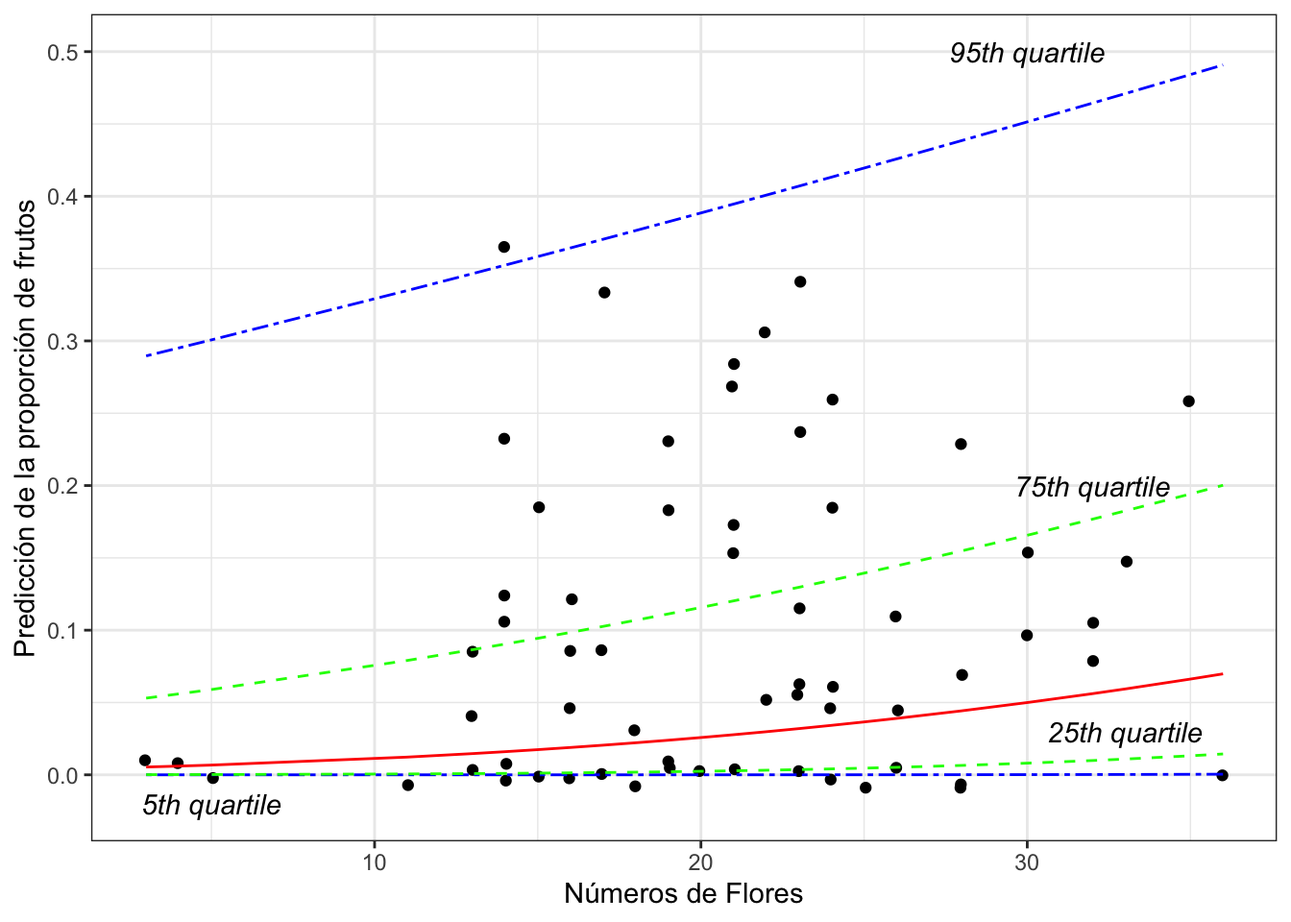
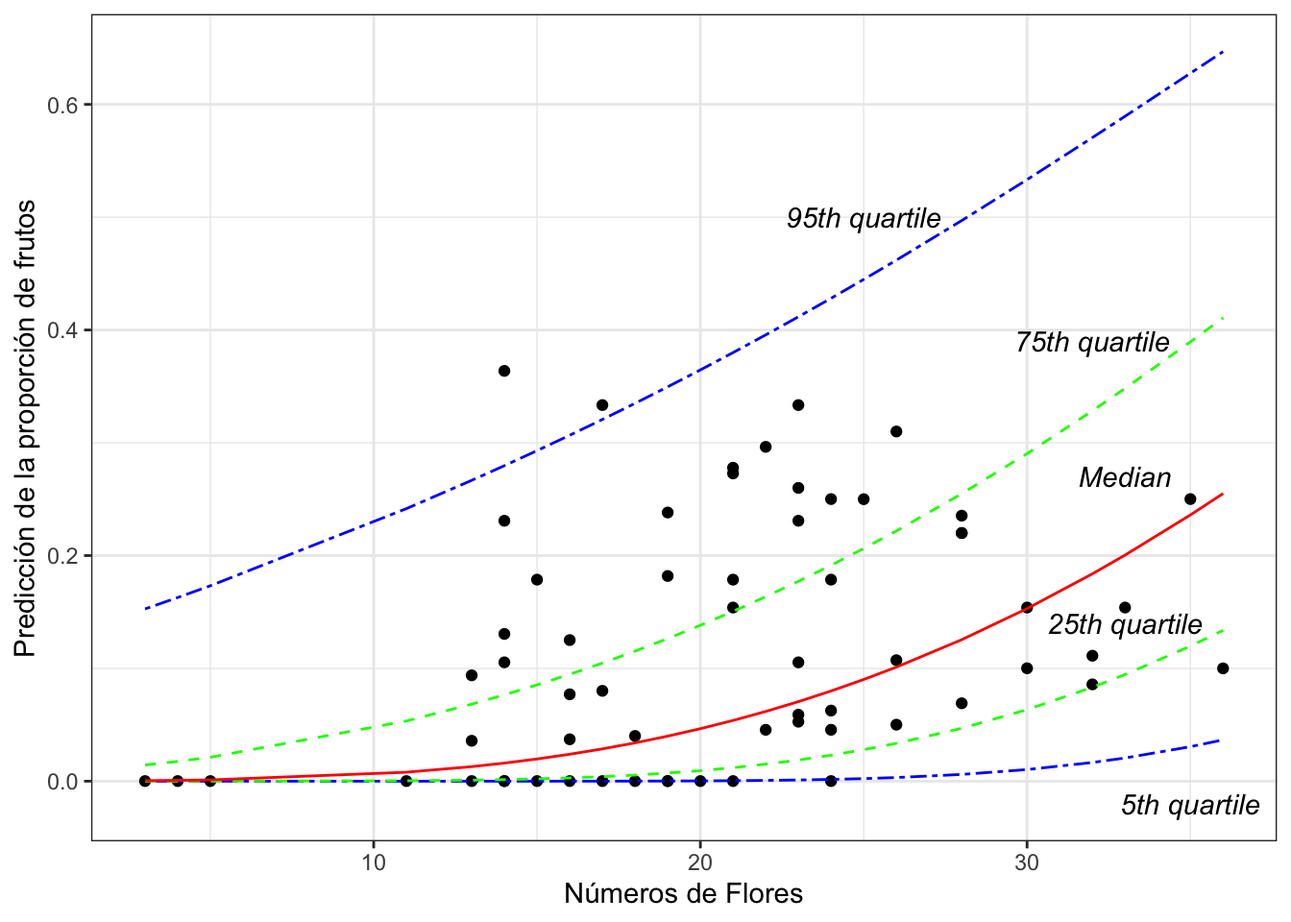
TF7

diff --git a/TF7_Regresion_beta.html b/TF7_Regresion_beta.html
@@ -708,12 +708,12 @@ div.tocify {
 <h1>Primer paso, que es una distribución beta?</h1>
 <p>Lo más importante de la distribución beta es que los valores NUNCA son menores de 0 ni mayores de 1. En adición los intervalos de confianza tampoco no pueden ser ni menor de 0 ni mayor de 1.</p>
 <div class="sourceCode" id="cb2"><pre class="sourceCode r"><code class="sourceCode r"><span id="cb2-1"><a href="#cb2-1"></a><span class="kw">library</span>(tidyverse)</span></code></pre></div>
-<pre><code>## ── Attaching packages ───────────────────────────────────────────────────────────────── tidyverse 1.3.0 ──</code></pre>
+<pre><code>## ── Attaching packages ─────────────────────────────────────────────────────────────────────────────────────────────────────────────────────────────────── tidyverse 1.3.0 ──</code></pre>
 <pre><code>## ✓ tibble  3.0.3     ✓ dplyr   1.0.2
 ## ✓ tidyr   1.1.2     ✓ stringr 1.4.0
 ## ✓ readr   1.4.0     ✓ forcats 0.5.0
 ## ✓ purrr   0.3.4</code></pre>
-<pre><code>## ── Conflicts ──────────────────────────────────────────────────────────────────── tidyverse_conflicts() ──
+<pre><code>## ── Conflicts ────────────────────────────────────────────────────────────────────────────────────────────────────────────────────────────────────── tidyverse_conflicts() ──
 ## x dplyr::filter() masks stats::filter()
 ## x dplyr::lag()    masks stats::lag()</code></pre>
 <div class="sourceCode" id="cb6"><pre class="sourceCode r"><code class="sourceCode r"><span id="cb6-1"><a href="#cb6-1"></a><span class="kw">library</span>(ggplot2)</span></code></pre></div>
@@ -731,7 +731,7 @@ div.tocify {
 <div class="sourceCode" id="cb8"><pre class="sourceCode r"><code class="sourceCode r"><span id="cb8-1"><a href="#cb8-1"></a><span class="kw">library</span>(readr)</span>
 <span id="cb8-2"><a href="#cb8-2"></a>Proportion_smokers_world &lt;-<span class="st"> </span><span class="kw">read_csv</span>(<span class="st">&quot;Data/Proportion_smokers_world.csv&quot;</span>)</span></code></pre></div>
 <pre><code>## 
-## ── Column specification ──────────────────────────────────────────────────────────────────────────────────
+## ── Column specification ────────────────────────────────────────────────────────────────────────────────────────────────────────────────────────────────────────────────────
 ## cols(
 ##   Country_Name = col_character(),
 ##   Country_Code = col_character(),
@@ -806,24 +806,45 @@ div.tocify {
 ## 
 ## Intervals : 
 ## Level       BCa          
-## 95%   ( 0.2538,  0.2976 )  
+## 95%   ( 0.2393,  0.2832 )  
 ## Calculations and Intervals on Original Scale</code></pre>
 </div>
 </div>
 <div id="sobreponemos-el-intervalo-de-confianza-de-la-mediana-sobre-la-distribución-beta" class="section level1">
 <h1>Sobreponemos el intervalo de confianza de la mediana sobre la distribución beta</h1>
 <div class="sourceCode" id="cb24"><pre class="sourceCode r"><code class="sourceCode r"><span id="cb24-1"><a href="#cb24-1"></a><span class="kw">ggplot</span>(Smokers, <span class="kw">aes</span>(Y2000P))<span class="op">+</span></span>
-<span id="cb24-2"><a href="#cb24-2"></a><span class="st">  </span><span class="kw">geom_histogram</span>(<span class="kw">aes</span>(<span class="dt">y=</span>..density..), <span class="dt">colour=</span><span class="st">&quot;white&quot;</span>, <span class="dt">fill=</span><span class="st">&quot;grey50&quot;</span>)<span class="op">+</span></span>
+<span id="cb24-2"><a href="#cb24-2"></a><span class="st">  </span><span class="kw">geom_histogram</span>(<span class="kw">aes</span>(<span class="dt">y=</span>..density..), <span class="dt">bins=</span><span class="dv">20</span>, <span class="dt">colour=</span><span class="st">&quot;white&quot;</span>, <span class="dt">fill=</span><span class="st">&quot;grey50&quot;</span>)<span class="op">+</span></span>
 <span id="cb24-3"><a href="#cb24-3"></a><span class="st">  </span><span class="kw">stat_function</span>(<span class="kw">aes</span>(<span class="dt">x =</span> Smokers<span class="op">$</span>Y2000P, <span class="dt">y =</span> ..y..), <span class="dt">fun =</span> dbeta, <span class="dt">colour=</span><span class="st">&quot;red&quot;</span>, <span class="dt">n =</span> <span class="dv">100</span>,</span>
 <span id="cb24-4"><a href="#cb24-4"></a>                      <span class="dt">args =</span> <span class="kw">list</span>(<span class="dt">shape1 =</span> <span class="fl">3.593</span>, <span class="dt">shape2 =</span> <span class="fl">9.185</span>))<span class="op">+</span></span>
 <span id="cb24-5"><a href="#cb24-5"></a><span class="st">  </span><span class="kw">geom_vline</span>(<span class="dt">xintercept =</span><span class="fl">0.2320</span>, <span class="dt">colour=</span><span class="st">&quot;blue&quot;</span>)<span class="op">+</span><span class="st"> </span><span class="co"># El intervalo de confianza del promedio</span></span>
 <span id="cb24-6"><a href="#cb24-6"></a><span class="st">  </span><span class="kw">geom_vline</span>(<span class="dt">xintercept =</span><span class="fl">0.2768</span>, <span class="dt">colour=</span><span class="st">&quot;blue&quot;</span>)<span class="op">+</span></span>
 <span id="cb24-7"><a href="#cb24-7"></a><span class="st">  </span>rlt_theme<span class="op">+</span></span>
-<span id="cb24-8"><a href="#cb24-8"></a><span class="st">  </span><span class="kw">xlab</span>(<span class="st">&quot;Proportción de fumadores por Pais&quot;</span>)</span></code></pre></div>
-<pre><code>## `stat_bin()` using `bins = 30`. Pick better value with `binwidth`.</code></pre>
+<span id="cb24-8"><a href="#cb24-8"></a><span class="st">  </span><span class="kw">xlab</span>(<span class="st">&quot;Proporción de fumadores por Pais&quot;</span>)</span></code></pre></div>
 <p><img src="TF7_Regresion_beta_files/figure-html/unnamed-chunk-11-1.png" width="672" /></p>
 <p>Ahora vamos es hacer el primer análisis de regresión donde nuestra respuesta es una proporción.</p>
-<div class="sourceCode" id="cb26"><pre class="sourceCode r"><code class="sourceCode r"><span id="cb26-1"><a href="#cb26-1"></a><span class="kw">library</span>(ggversa) <span class="co"># paquete para los datos</span></span></code></pre></div>
+<div class="sourceCode" id="cb25"><pre class="sourceCode r"><code class="sourceCode r"><span id="cb25-1"><a href="#cb25-1"></a><span class="kw">library</span>(ggversa) <span class="co"># paquete para los datos</span></span>
+<span id="cb25-2"><a href="#cb25-2"></a><span class="kw">attach</span>(dipodium)</span>
+<span id="cb25-3"><a href="#cb25-3"></a>dipodium</span></code></pre></div>
+<pre><code>## # A tibble: 1,363 x 21
+##    `Tree Number` `Tree species`   DBH `Plant number` `Ramet number` Distance
+##            &lt;int&gt; &lt;chr&gt;          &lt;dbl&gt;          &lt;int&gt;          &lt;int&gt;    &lt;dbl&gt;
+##  1             1 E.o             75                1              1     2.47
+##  2             1 E.o             76                2              1     1.97
+##  3             2 E.o             76                3              1     1.95
+##  4             3 E.o             58                4              1     3.24
+##  5             4 E.o             NA                5              1     0.85
+##  6             5 E.o             59                6              1     2.62
+##  7             5 E.o             59                7              1     2.82
+##  8             6 E.o              8                8              1     3.12
+##  9             7 E.o             11.5              9              1     1.12
+## 10             8 E.o              8.5             10              1     0.75
+## # … with 1,353 more rows, and 15 more variables: Orientation &lt;dbl&gt;,
+## #   Number_of_Flowers &lt;int&gt;, Height_Inflo &lt;int&gt;, Herbivory &lt;chr&gt;,
+## #   RowPosition_NF &lt;int&gt;, Number_Flowers_position &lt;int&gt;,
+## #   Number_of_fruits &lt;int&gt;, Perc_FR_set &lt;dbl&gt;, pardalinum_or_roseum &lt;chr&gt;,
+## #   Fruit_position_effect &lt;int&gt;, Frutos_si_o_no &lt;int&gt;,
+## #   P_or_R_Infl_Lenght &lt;chr&gt;, `Num of fruits` &lt;int&gt;, Species_Name &lt;chr&gt;,
+## #   `Cardinal orientation` &lt;int&gt;</code></pre>
 <div class="sourceCode" id="cb27"><pre class="sourceCode r"><code class="sourceCode r"><span id="cb27-1"><a href="#cb27-1"></a><span class="kw">library</span>(betareg) <span class="co"># El paquete para hacer regresión beta</span></span></code></pre></div>
 <hr />
 <div id="regresión-beta" class="section level2">
@@ -836,10 +857,10 @@ from this webpage: <a href="https://binalongbungalows.wordpress.com/tasmanian-or
 </div>
 <p>Los datos provienen de una especie de orquidea de Autralia, <em>Dipodium roseum</em>, recolectado por RLT en 2004-2005. Vamos a evaluar la relación entre el número de flores y la proporción de frutos por planta. El primer paso es asegarar que no haya valores de 0 y 1. En este caso no hay ni una planta que tiene 100% de frutos, pero si hay individuos que tienen cero frutos.</p>
 <ul>
-<li>RECUERDA x &gt;0 y &lt;1. NO se acepta 0 o 1. Entonces a los valores de 0 se le puede añadir un valor mínimo como 0.001 y a los 1 restar 0.001. En realidad esta modificación no impacta la interpretación de los resultados.</li>
-<li>se remueva también del archivo los NA.</li>
+<li><p>RECUERDA x &gt;0 y &lt;1. NO se acepta 0 o 1. Entonces a los valores de 0 se le puede añadir un valor mínimo como 0.001 y a los 1 restar 0.001. En realidad esta modificación no impacta la interpretación de los resultados.</p></li>
+<li><p>se remueva también del archivo los NA.</p></li>
+<li><p>Nota que el modelo se construye como un modelo lineal <strong>betareg(y~x, data =na.omit(df))</strong>. Las variables del archivo son <strong>PropFR</strong>, el proporción de frutos (número de frutos/números de flores) por cada individuo y el número de flores, <strong>Number_of_Flowers</strong>.</p></li>
 </ul>
-<p>Nota el modelo se construye como un modelo lineal <strong>betareg(y~ x, data =na.omit(df))</strong>. Las variables del archivo son <strong>PropFR</strong>, el porciento de frutos (numero de frutos/números de flores) por cada individuo y el número de flores, <strong>Number_of_Flowers</strong>.</p>
 <div class="sourceCode" id="cb28"><pre class="sourceCode r"><code class="sourceCode r"><span id="cb28-1"><a href="#cb28-1"></a><span class="kw">head</span>(dipodium)</span></code></pre></div>
 <pre><code>## # A tibble: 6 x 21
 ##   `Tree Number` `Tree species`   DBH `Plant number` `Ramet number` Distance
@@ -859,132 +880,167 @@ from this webpage: <a href="https://binalongbungalows.wordpress.com/tasmanian-or
 <div class="sourceCode" id="cb30"><pre class="sourceCode r"><code class="sourceCode r"><span id="cb30-1"><a href="#cb30-1"></a><span class="kw">library</span>(tidyverse)</span>
 <span id="cb30-2"><a href="#cb30-2"></a>dipodium<span class="op">$</span>PropFR=dipodium<span class="op">$</span>Perc_FR_set<span class="fl">+0.0001</span> <span class="co"># solucionar para remover los cero</span></span>
 <span id="cb30-3"><a href="#cb30-3"></a><span class="co">#dipodium$PropFR</span></span>
-<span id="cb30-4"><a href="#cb30-4"></a></span>
-<span id="cb30-5"><a href="#cb30-5"></a>modelpropFr=<span class="kw">betareg</span>(PropFR<span class="op">~</span>Number_of_Flowers<span class="op">+</span>Height_Inflo<span class="op">+</span>Distance, <span class="dt">data =</span><span class="kw">na.omit</span>(dipodium))</span>
-<span id="cb30-6"><a href="#cb30-6"></a><span class="kw">summary</span>(modelpropFr)</span></code></pre></div>
+<span id="cb30-4"><a href="#cb30-4"></a>dipodium2=dipodium <span class="op">%&gt;%</span><span class="st"> </span></span>
+<span id="cb30-5"><a href="#cb30-5"></a><span class="st">  </span><span class="kw">select</span>(PropFR, Number_of_Flowers,Height_Inflo, Distance) <span class="op">%&gt;%</span><span class="st"> </span></span>
+<span id="cb30-6"><a href="#cb30-6"></a><span class="st">  </span><span class="kw">filter</span>(<span class="kw">complete.cases</span>(PropFR, Number_of_Flowers,Height_Inflo, Distance))</span>
+<span id="cb30-7"><a href="#cb30-7"></a><span class="co">#dipodium2</span></span>
+<span id="cb30-8"><a href="#cb30-8"></a><span class="kw">write.csv</span>(<span class="dt">x=</span>dipodium2, <span class="dt">file=</span><span class="st">&quot;dipodium2.csv&quot;</span>)</span>
+<span id="cb30-9"><a href="#cb30-9"></a></span>
+<span id="cb30-10"><a href="#cb30-10"></a></span>
+<span id="cb30-11"><a href="#cb30-11"></a><span class="kw">library</span>(readr)</span>
+<span id="cb30-12"><a href="#cb30-12"></a>dipodium2 &lt;-<span class="st"> </span><span class="kw">read_csv</span>(<span class="st">&quot;Data/dipodium2.csv&quot;</span>)</span></code></pre></div>
+<pre><code>## Warning: Missing column names filled in: &#39;X1&#39; [1]</code></pre>
+<pre><code>## 
+## ── Column specification ────────────────────────────────────────────────────────────────────────────────────────────────────────────────────────────────────────────────────
+## cols(
+##   X1 = col_double(),
+##   PropFR = col_double(),
+##   Number_of_Flowers = col_double(),
+##   Height_Inflo = col_double(),
+##   Distance = col_double()
+## )</code></pre>
+<div class="sourceCode" id="cb33"><pre class="sourceCode r"><code class="sourceCode r"><span id="cb33-1"><a href="#cb33-1"></a>modelpropFr=<span class="kw">betareg</span>(PropFR<span class="op">~</span>Number_of_Flowers<span class="op">+</span>Height_Inflo<span class="op">+</span>Distance, <span class="dt">data =</span><span class="kw">na.omit</span>(dipodium2))</span>
+<span id="cb33-2"><a href="#cb33-2"></a><span class="kw">summary</span>(modelpropFr)</span></code></pre></div>
 <pre><code>## 
 ## Call:
 ## betareg(formula = PropFR ~ Number_of_Flowers + Height_Inflo + Distance, 
-##     data = na.omit(dipodium))
+##     data = na.omit(dipodium2))
 ## 
 ## Standardized weighted residuals 2:
 ##     Min      1Q  Median      3Q     Max 
-## -2.8323 -0.9208  0.4668  0.8004  1.1666 
+## -3.8613 -0.4046  0.2672  0.8535  1.2798 
 ## 
 ## Coefficients (mean model with logit link):
-##                   Estimate Std. Error z value Pr(&gt;|z|)   
-## (Intercept)       -2.01965    0.74994  -2.693  0.00708 **
-## Number_of_Flowers  0.06048    0.03139   1.927  0.05401 . 
-## Height_Inflo      -0.02293    0.01921  -1.194  0.23264   
-## Distance          -0.14251    0.10093  -1.412  0.15797   
+##                    Estimate Std. Error z value Pr(&gt;|z|)    
+## (Intercept)       -3.796016   0.727139  -5.220 1.78e-07 ***
+## Number_of_Flowers  0.076200   0.028247   2.698  0.00698 ** 
+## Height_Inflo       0.006054   0.017847   0.339  0.73444    
+## Distance          -0.111010   0.093825  -1.183  0.23674    
 ## 
 ## Phi coefficients (precision model with identity link):
 ##       Estimate Std. Error z value Pr(&gt;|z|)    
-## (phi)   3.6052     0.8236   4.377  1.2e-05 ***
+## (phi)   4.8382     0.9982   4.847 1.25e-06 ***
 ## ---
 ## Signif. codes:  0 &#39;***&#39; 0.001 &#39;**&#39; 0.01 &#39;*&#39; 0.05 &#39;.&#39; 0.1 &#39; &#39; 1 
 ## 
 ## Type of estimator: ML (maximum likelihood)
-## Log-likelihood: 122.4 on 5 Df
-## Pseudo R-squared: 0.09374
-## Number of iterations: 20 (BFGS) + 1 (Fisher scoring)</code></pre>
+## Log-likelihood: 113.9 on 5 Df
+## Pseudo R-squared: 0.2757
+## Number of iterations: 19 (BFGS) + 2 (Fisher scoring)</code></pre>
 </div>
 <div id="visualizar-un-grafico-de-regresión-beta" class="section level2">
 <h2>Visualizar un grafico de regresión beta</h2>
-<div class="sourceCode" id="cb32"><pre class="sourceCode r"><code class="sourceCode r"><span id="cb32-1"><a href="#cb32-1"></a>dipodiumbeta=dipodium[,<span class="kw">c</span>(<span class="st">&quot;Number_of_Flowers&quot;</span>,<span class="st">&quot;PropFR&quot;</span>)] <span class="co"># crear un df con solamente las columnas de interes </span></span>
-<span id="cb32-2"><a href="#cb32-2"></a></span>
-<span id="cb32-3"><a href="#cb32-3"></a> dp2=dipodiumbeta[<span class="kw">complete.cases</span>(dipodiumbeta),] <span class="co"># remover los &quot;NA&quot; </span></span>
-<span id="cb32-4"><a href="#cb32-4"></a> </span>
-<span id="cb32-5"><a href="#cb32-5"></a>modelpropFr=<span class="kw">betareg</span>(PropFR<span class="op">~</span>Number_of_Flowers, <span class="dt">data=</span>dp2) <span class="co"># El modelo con solamente la explicativa</span></span>
-<span id="cb32-6"><a href="#cb32-6"></a><span class="kw">summary</span>(modelpropFr)</span></code></pre></div>
+<div class="sourceCode" id="cb35"><pre class="sourceCode r"><code class="sourceCode r"><span id="cb35-1"><a href="#cb35-1"></a>dipodiumbeta=dipodium2[,<span class="kw">c</span>(<span class="st">&quot;Number_of_Flowers&quot;</span>,<span class="st">&quot;PropFR&quot;</span>)] <span class="co"># crear un df con solamente las columnas de interes </span></span>
+<span id="cb35-2"><a href="#cb35-2"></a></span>
+<span id="cb35-3"><a href="#cb35-3"></a> dp2=dipodiumbeta[<span class="kw">complete.cases</span>(dipodiumbeta),] <span class="co"># remover los &quot;NA&quot; </span></span>
+<span id="cb35-4"><a href="#cb35-4"></a> </span>
+<span id="cb35-5"><a href="#cb35-5"></a>modelpropFr=<span class="kw">betareg</span>(PropFR<span class="op">~</span>Number_of_Flowers, <span class="dt">data=</span>dp2) <span class="co"># El modelo con solamente la explicativa</span></span>
+<span id="cb35-6"><a href="#cb35-6"></a><span class="kw">summary</span>(modelpropFr)</span></code></pre></div>
 <pre><code>## 
 ## Call:
 ## betareg(formula = PropFR ~ Number_of_Flowers, data = dp2)
 ## 
 ## Standardized weighted residuals 2:
 ##     Min      1Q  Median      3Q     Max 
-## -2.6204 -0.9891  0.4285  0.7989  1.1263 
+## -3.3221 -0.3181  0.2414  0.8225  1.2346 
 ## 
 ## Coefficients (mean model with logit link):
 ##                   Estimate Std. Error z value Pr(&gt;|z|)    
-## (Intercept)       -2.95068    0.45003  -6.557 5.51e-11 ***
-## Number_of_Flowers  0.03047    0.01873   1.627    0.104    
+## (Intercept)       -3.88360    0.44251  -8.776  &lt; 2e-16 ***
+## Number_of_Flowers  0.08259    0.01803   4.581 4.62e-06 ***
 ## 
 ## Phi coefficients (precision model with identity link):
 ##       Estimate Std. Error z value Pr(&gt;|z|)    
-## (phi)   3.4044     0.7682   4.432 9.35e-06 ***
+## (phi)   4.6947     0.9699    4.84  1.3e-06 ***
 ## ---
 ## Signif. codes:  0 &#39;***&#39; 0.001 &#39;**&#39; 0.01 &#39;*&#39; 0.05 &#39;.&#39; 0.1 &#39; &#39; 1 
 ## 
 ## Type of estimator: ML (maximum likelihood)
-## Log-likelihood: 138.4 on 3 Df
-## Pseudo R-squared: 0.0644
-## Number of iterations: 14 (BFGS) + 2 (Fisher scoring)</code></pre>
-<div class="sourceCode" id="cb34"><pre class="sourceCode r"><code class="sourceCode r"><span id="cb34-1"><a href="#cb34-1"></a> <span class="co">#head(dp2)</span></span>
-<span id="cb34-2"><a href="#cb34-2"></a><span class="co">#dp2$PropFR</span></span>
-<span id="cb34-3"><a href="#cb34-3"></a><span class="kw">predict</span>(modelpropFr, <span class="dt">type =</span> <span class="st">&quot;response&quot;</span>) <span class="co"># calcular los valores estimados (predichos)</span></span></code></pre></div>
+## Log-likelihood: 112.9 on 3 Df
+## Pseudo R-squared: 0.2538
+## Number of iterations: 18 (BFGS) + 1 (Fisher scoring)</code></pre>
+<div class="sourceCode" id="cb37"><pre class="sourceCode r"><code class="sourceCode r"><span id="cb37-1"><a href="#cb37-1"></a> <span class="co">#head(dp2)</span></span>
+<span id="cb37-2"><a href="#cb37-2"></a><span class="co">#dp2$PropFR</span></span>
+<span id="cb37-3"><a href="#cb37-3"></a><span class="kw">predict</span>(modelpropFr, <span class="dt">type =</span> <span class="st">&quot;response&quot;</span>) <span class="co"># calcular los valores estimados (predichos)</span></span></code></pre></div>
 <pre><code>##          1          2          3          4          5          6          7 
-## 0.06814386 0.08534612 0.08299774 0.09801287 0.10073942 0.08070828 0.08534612 
+## 0.02568523 0.02783519 0.03015954 0.04856508 0.05679268 0.05679268 0.05679268 
 ##          8          9         10         11         12         13         14 
-## 0.07418174 0.07847656 0.09535228 0.07418174 0.05578661 0.09535228 0.09022432 
+## 0.06138242 0.06138242 0.06138242 0.06138242 0.06138242 0.06138242 0.06631700 
 ##         15         16         17         18         19         20         21 
-## 0.09022432 0.07847656 0.07211634 0.12506577 0.07630144 0.08070828 0.07418174 
+## 0.06631700 0.07161801 0.07161801 0.07161801 0.07161801 0.07730766 0.07730766 
 ##         22         23         24         25         26         27         28 
-## 0.09535228 0.11540253 0.10932659 0.08299774 0.08070828 0.13188690 0.07211634 
+## 0.07730766 0.08340872 0.08340872 0.08994433 0.08994433 0.08994433 0.08994433 
 ##         29         30         31         32         33         34         35 
-## 0.11540253 0.12176997 0.09022432 0.10932659 0.07418174 0.07418174 0.07847656 
+## 0.09693789 0.10441284 0.10441284 0.10441284 0.10441284 0.10441284 0.11239245 
 ##         36         37         38         39         40         41         42 
-## 0.09801287 0.07630144 0.10353312 0.10353312 0.08775459 0.07418174 0.09535228 
+## 0.11239245 0.12089957 0.12089957 0.12089957 0.12089957 0.12089957 0.12089957 
 ##         43         44         45         46         47         48         49 
-## 0.09801287 0.09022432 0.08534612 0.10353312 0.09275650 0.08534612 0.05420339 
+## 0.12995632 0.12995632 0.12995632 0.12995632 0.12995632 0.13958381 0.14980172 
 ##         50         51         52         53         54         55         56 
-## 0.13541430 0.12176997 0.09022432 0.09535228 0.09535228 0.07847656 0.09275650 
+## 0.14980172 0.14980172 0.17207828 0.17207828 0.17207828 0.17207828 0.19690033 
 ##         57         58         59         60         61         62 
-## 0.07211634 0.09801287 0.10932659 0.10932659 0.09801287 0.05741327</code></pre>
-<div class="sourceCode" id="cb36"><pre class="sourceCode r"><code class="sourceCode r"><span id="cb36-1"><a href="#cb36-1"></a>dp2<span class="op">$</span>response=<span class="kw">predict</span>(modelpropFr, <span class="dt">type =</span> <span class="st">&quot;response&quot;</span>)</span>
-<span id="cb36-2"><a href="#cb36-2"></a><span class="co"># dp2$link=predict(modelpropFr, type = &quot;link&quot;)</span></span>
-<span id="cb36-3"><a href="#cb36-3"></a><span class="co"># dp2$precision=predict(modelpropFr, type = &quot;precision&quot;)</span></span>
-<span id="cb36-4"><a href="#cb36-4"></a><span class="co"># dp2$variance=predict(modelpropFr, type = &quot;variance&quot;)</span></span>
-<span id="cb36-5"><a href="#cb36-5"></a>dp2<span class="op">$</span>quantile_.<span class="dv">25</span>=<span class="kw">predict</span>(modelpropFr, <span class="dt">type =</span> <span class="st">&quot;quantile&quot;</span>, <span class="dt">at =</span> <span class="kw">c</span>(<span class="fl">0.25</span>))</span>
-<span id="cb36-6"><a href="#cb36-6"></a>dp2<span class="op">$</span>quantile_.<span class="dv">50</span>=<span class="kw">predict</span>(modelpropFr, <span class="dt">type =</span> <span class="st">&quot;quantile&quot;</span>, <span class="dt">at =</span> <span class="kw">c</span>(<span class="fl">0.50</span>))</span>
-<span id="cb36-7"><a href="#cb36-7"></a>dp2<span class="op">$</span>quantile_.<span class="dv">75</span>=<span class="kw">predict</span>(modelpropFr, <span class="dt">type =</span> <span class="st">&quot;quantile&quot;</span>, <span class="dt">at =</span> <span class="kw">c</span>(<span class="fl">0.75</span>))</span>
-<span id="cb36-8"><a href="#cb36-8"></a>dp2<span class="op">$</span>quantile_.<span class="dv">05</span>=<span class="kw">predict</span>(modelpropFr, <span class="dt">type =</span> <span class="st">&quot;quantile&quot;</span>, <span class="dt">at =</span> <span class="kw">c</span>(<span class="fl">0.05</span>))</span>
-<span id="cb36-9"><a href="#cb36-9"></a>dp2<span class="op">$</span>quantile_.<span class="dv">95</span>=<span class="kw">predict</span>(modelpropFr, <span class="dt">type =</span> <span class="st">&quot;quantile&quot;</span>, <span class="dt">at =</span> <span class="kw">c</span>(<span class="fl">0.95</span>))</span>
-<span id="cb36-10"><a href="#cb36-10"></a><span class="kw">head</span>(dp2)</span></code></pre></div>
-<pre><code>## # A tibble: 6 x 8
-##   Number_of_Flowe… PropFR response quantile_.25 quantile_.50 quantile_.75
-##              &lt;int&gt;  &lt;dbl&gt;    &lt;dbl&gt;        &lt;dbl&gt;        &lt;dbl&gt;        &lt;dbl&gt;
-## 1               11 0.0001   0.0681     0.000605       0.0123       0.0791
-## 2               19 0.0001   0.0853     0.00212        0.0239       0.111 
-## 3               18 0.0401   0.0830     0.00184        0.0222       0.107 
-## 4               24 0.250    0.0980     0.00409        0.0342       0.135 
-## 5               25 0.0001   0.101      0.00461        0.0366       0.139 
-## 6               17 0.0801   0.0807     0.00159        0.0205       0.103 
-## # … with 2 more variables: quantile_.05 &lt;dbl&gt;, quantile_.95 &lt;dbl&gt;</code></pre>
-<p>Contructing the figure for beta regression, One of the main advantage of using this approach is that the quartile are calculated with a beta distribution. Thus the margin of error DO NOT go below 0, and do NOT go over 1.</p>
-<div class="sourceCode" id="cb38"><pre class="sourceCode r"><code class="sourceCode r"><span id="cb38-1"><a href="#cb38-1"></a><span class="kw">library</span>(ggplot2)</span>
-<span id="cb38-2"><a href="#cb38-2"></a><span class="kw">ggplot</span>(dp2, <span class="kw">aes</span>(<span class="dt">x=</span>Number_of_Flowers, <span class="dt">y=</span>PropFR))<span class="op">+</span></span>
-<span id="cb38-3"><a href="#cb38-3"></a><span class="st">  </span><span class="kw">geom_jitter</span>(<span class="dt">width =</span> <span class="fl">0.05</span>, <span class="dt">height =</span> <span class="fl">0.01</span>)<span class="op">+</span></span>
-<span id="cb38-4"><a href="#cb38-4"></a><span class="st">  </span><span class="kw">geom_line</span>(<span class="kw">aes</span>(<span class="dt">y=</span>quantile_.<span class="dv">05</span>), <span class="dt">linetype=</span><span class="st">&quot;twodash&quot;</span>, <span class="dt">colour=</span><span class="st">&quot;blue&quot;</span>)<span class="op">+</span></span>
-<span id="cb38-5"><a href="#cb38-5"></a><span class="st">  </span><span class="kw">geom_line</span>(<span class="kw">aes</span>(<span class="dt">y=</span>quantile_.<span class="dv">25</span>),<span class="dt">linetype=</span><span class="dv">2</span>, <span class="dt">colour=</span><span class="st">&quot;green&quot;</span>)<span class="op">+</span></span>
-<span id="cb38-6"><a href="#cb38-6"></a><span class="st">  </span><span class="kw">geom_line</span>(<span class="kw">aes</span>(<span class="dt">y=</span>quantile_.<span class="dv">50</span>), <span class="dt">colour=</span><span class="st">&quot;red&quot;</span>)<span class="op">+</span></span>
-<span id="cb38-7"><a href="#cb38-7"></a><span class="st">  </span><span class="kw">geom_line</span>(<span class="kw">aes</span>(<span class="dt">y=</span>quantile_.<span class="dv">75</span>), <span class="dt">linetype=</span><span class="dv">2</span>, <span class="dt">colour=</span><span class="st">&quot;green&quot;</span>)<span class="op">+</span></span>
-<span id="cb38-8"><a href="#cb38-8"></a><span class="st">  </span><span class="kw">geom_line</span>(<span class="kw">aes</span>(<span class="dt">y=</span>quantile_.<span class="dv">95</span>), <span class="dt">linetype=</span><span class="st">&quot;twodash&quot;</span>, <span class="dt">colour=</span><span class="st">&quot;blue&quot;</span>)<span class="op">+</span></span>
-<span id="cb38-9"><a href="#cb38-9"></a><span class="st">  </span><span class="kw">ylab</span>(<span class="st">&quot;Predicción de la proporción de frutos&quot;</span>)<span class="op">+</span></span>
-<span id="cb38-10"><a href="#cb38-10"></a><span class="st">  </span><span class="kw">xlab</span>(<span class="st">&quot;Números de Flores&quot;</span>)<span class="op">+</span></span>
-<span id="cb38-11"><a href="#cb38-11"></a><span class="st">  </span><span class="kw">annotate</span>(<span class="st">&quot;text&quot;</span>, <span class="dt">x=</span><span class="dv">30</span>, <span class="dt">y=</span><span class="fl">0.50</span>, <span class="dt">label=</span><span class="st">&quot;95th quartile&quot;</span>, <span class="dt">fontface=</span><span class="st">&quot;italic&quot;</span>)<span class="op">+</span></span>
-<span id="cb38-12"><a href="#cb38-12"></a><span class="st">  </span><span class="kw">annotate</span>(<span class="st">&quot;text&quot;</span>, <span class="dt">x=</span><span class="dv">32</span>, <span class="dt">y=</span><span class="fl">0.20</span>, <span class="dt">label=</span><span class="st">&quot;75th quartile&quot;</span>, <span class="dt">fontface=</span><span class="st">&quot;italic&quot;</span>)<span class="op">+</span></span>
-<span id="cb38-13"><a href="#cb38-13"></a><span class="st">  </span><span class="kw">annotate</span>(<span class="st">&quot;text&quot;</span>, <span class="dt">x=</span><span class="dv">33</span>, <span class="dt">y=</span><span class="fl">0.03</span>, <span class="dt">label=</span><span class="st">&quot;25th quartile&quot;</span>, <span class="dt">fontface=</span><span class="st">&quot;italic&quot;</span>)<span class="op">+</span></span>
-<span id="cb38-14"><a href="#cb38-14"></a><span class="st">  </span><span class="kw">annotate</span>(<span class="st">&quot;text&quot;</span>, <span class="dt">x=</span><span class="dv">5</span>, <span class="dt">y=</span><span class="op">-</span><span class="fl">0.02</span>, <span class="dt">label=</span><span class="st">&quot;5th quartile&quot;</span>, <span class="dt">fontface=</span><span class="st">&quot;italic&quot;</span>)<span class="op">+</span></span>
-<span id="cb38-15"><a href="#cb38-15"></a><span class="kw">theme</span>(<span class="dt">axis.title.y =</span> <span class="kw">element_text</span>(<span class="dt">colour=</span><span class="st">&quot;grey20&quot;</span>,<span class="dt">size=</span><span class="dv">20</span>,<span class="dt">face=</span><span class="st">&quot;bold&quot;</span>),</span>
-<span id="cb38-16"><a href="#cb38-16"></a>        <span class="dt">axis.text.x =</span> <span class="kw">element_text</span>(<span class="dt">colour=</span><span class="st">&quot;grey20&quot;</span>,<span class="dt">size=</span><span class="dv">20</span>,<span class="dt">face=</span><span class="st">&quot;bold&quot;</span>),</span>
-<span id="cb38-17"><a href="#cb38-17"></a>        <span class="dt">axis.text.y =</span> <span class="kw">element_text</span>(<span class="dt">colour=</span><span class="st">&quot;grey20&quot;</span>,<span class="dt">size=</span><span class="dv">20</span>,<span class="dt">face=</span><span class="st">&quot;bold&quot;</span>),  </span>
-<span id="cb38-18"><a href="#cb38-18"></a>        <span class="dt">axis.title.x =</span> <span class="kw">element_text</span>(<span class="dt">colour=</span><span class="st">&quot;grey20&quot;</span>,<span class="dt">size=</span><span class="dv">20</span>,<span class="dt">face=</span><span class="st">&quot;bold&quot;</span>))<span class="op">+</span></span>
-<span id="cb38-19"><a href="#cb38-19"></a><span class="st">  </span><span class="kw">theme</span>(<span class="dt">legend.position=</span><span class="st">&quot;none&quot;</span>)<span class="op">+</span></span>
-<span id="cb38-20"><a href="#cb38-20"></a><span class="st">  </span>rlt_theme</span></code></pre></div>
+## 0.19690033 0.22433274 0.22433274 0.23903102 0.27035714 0.28695536</code></pre>
+<div class="sourceCode" id="cb39"><pre class="sourceCode r"><code class="sourceCode r"><span id="cb39-1"><a href="#cb39-1"></a>dp2<span class="op">$</span>response=<span class="kw">predict</span>(modelpropFr, <span class="dt">type =</span> <span class="st">&quot;response&quot;</span>)</span>
+<span id="cb39-2"><a href="#cb39-2"></a><span class="co">#dp2$link=predict(modelpropFr, type = &quot;link&quot;)</span></span>
+<span id="cb39-3"><a href="#cb39-3"></a>dp2<span class="op">$</span>precision=<span class="kw">predict</span>(modelpropFr, <span class="dt">type =</span> <span class="st">&quot;precision&quot;</span>)</span>
+<span id="cb39-4"><a href="#cb39-4"></a>dp2<span class="op">$</span>variance=<span class="kw">predict</span>(modelpropFr, <span class="dt">type =</span> <span class="st">&quot;variance&quot;</span>)</span>
+<span id="cb39-5"><a href="#cb39-5"></a>dp2<span class="op">$</span>quantile_.<span class="dv">25</span>=<span class="kw">predict</span>(modelpropFr, <span class="dt">type =</span> <span class="st">&quot;quantile&quot;</span>, <span class="dt">at =</span> <span class="kw">c</span>(<span class="fl">0.25</span>))</span>
+<span id="cb39-6"><a href="#cb39-6"></a>dp2<span class="op">$</span>quantile_.<span class="dv">50</span>=<span class="kw">predict</span>(modelpropFr, <span class="dt">type =</span> <span class="st">&quot;quantile&quot;</span>, <span class="dt">at =</span> <span class="kw">c</span>(<span class="fl">0.50</span>))</span>
+<span id="cb39-7"><a href="#cb39-7"></a>dp2<span class="op">$</span>quantile_.<span class="dv">75</span>=<span class="kw">predict</span>(modelpropFr, <span class="dt">type =</span> <span class="st">&quot;quantile&quot;</span>, <span class="dt">at =</span> <span class="kw">c</span>(<span class="fl">0.75</span>))</span>
+<span id="cb39-8"><a href="#cb39-8"></a>dp2<span class="op">$</span>quantile_.<span class="dv">05</span>=<span class="kw">predict</span>(modelpropFr, <span class="dt">type =</span> <span class="st">&quot;quantile&quot;</span>, <span class="dt">at =</span> <span class="kw">c</span>(<span class="fl">0.05</span>))</span>
+<span id="cb39-9"><a href="#cb39-9"></a>dp2<span class="op">$</span>quantile_.<span class="dv">95</span>=<span class="kw">predict</span>(modelpropFr, <span class="dt">type =</span> <span class="st">&quot;quantile&quot;</span>, <span class="dt">at =</span> <span class="kw">c</span>(<span class="fl">0.95</span>))</span>
+<span id="cb39-10"><a href="#cb39-10"></a>dp2</span></code></pre></div>
+<pre><code>## # A tibble: 62 x 10
+##    Number_of_Flowe… PropFR response precision variance quantile_.25 quantile_.50
+##               &lt;dbl&gt;  &lt;dbl&gt;    &lt;dbl&gt;     &lt;dbl&gt;    &lt;dbl&gt;        &lt;dbl&gt;        &lt;dbl&gt;
+##  1                3 0.0001   0.0257      4.69  0.00439   0.00000151     0.000475
+##  2                4 0.0001   0.0278      4.69  0.00475   0.00000371     0.000748
+##  3                5 0.0001   0.0302      4.69  0.00514   0.00000848     0.00114 
+##  4               11 0.0001   0.0486      4.69  0.00811   0.000372       0.00795 
+##  5               13 0.0358   0.0568      4.69  0.00941   0.000928       0.0129  
+##  6               13 0.0938   0.0568      4.69  0.00941   0.000928       0.0129  
+##  7               13 0.0001   0.0568      4.69  0.00941   0.000928       0.0129  
+##  8               14 0.0001   0.0614      4.69  0.0101    0.00139        0.0160  
+##  9               14 0.364    0.0614      4.69  0.0101    0.00139        0.0160  
+## 10               14 0.105    0.0614      4.69  0.0101    0.00139        0.0160  
+## # … with 52 more rows, and 3 more variables: quantile_.75 &lt;dbl&gt;,
+## #   quantile_.05 &lt;dbl&gt;, quantile_.95 &lt;dbl&gt;</code></pre>
+<p>Al construir la figura para la regresión beta, una de las principales ventajas de utilizar este enfoque es que los cuartiles se calcula con una distribución beta. Por lo tanto, el margen de error NO baja de 0 y NO pasa de 1.</p>
+<p>Evalua la siguiente figura en cada x hay una distribución beta, donde la linea roja representa ma mediana, las lineas verdes los cuartiles 25 y 75 y las lineas azules los cuartiles 5 y 95. NOTA que la distribución no es simétrica, y cambia a travez de la regresión.</p>
+<div class="sourceCode" id="cb41"><pre class="sourceCode r"><code class="sourceCode r"><span id="cb41-1"><a href="#cb41-1"></a><span class="kw">library</span>(ggplot2)</span>
+<span id="cb41-2"><a href="#cb41-2"></a><span class="kw">ggplot</span>(dp2, <span class="kw">aes</span>(<span class="dt">x=</span>Number_of_Flowers, <span class="dt">y=</span>PropFR))<span class="op">+</span></span>
+<span id="cb41-3"><a href="#cb41-3"></a><span class="st">  </span><span class="kw">geom_point</span>(<span class="dt">width =</span> <span class="fl">0.05</span>, <span class="dt">height =</span> <span class="fl">0.01</span>)<span class="op">+</span></span>
+<span id="cb41-4"><a href="#cb41-4"></a><span class="st">  </span><span class="kw">geom_line</span>(<span class="kw">aes</span>(<span class="dt">y=</span>quantile_.<span class="dv">05</span>), <span class="dt">linetype=</span><span class="st">&quot;twodash&quot;</span>, <span class="dt">colour=</span><span class="st">&quot;blue&quot;</span>)<span class="op">+</span></span>
+<span id="cb41-5"><a href="#cb41-5"></a><span class="st">  </span><span class="kw">geom_line</span>(<span class="kw">aes</span>(<span class="dt">y=</span>quantile_.<span class="dv">25</span>),<span class="dt">linetype=</span><span class="dv">2</span>, <span class="dt">colour=</span><span class="st">&quot;green&quot;</span>)<span class="op">+</span></span>
+<span id="cb41-6"><a href="#cb41-6"></a><span class="st">  </span><span class="kw">geom_line</span>(<span class="kw">aes</span>(<span class="dt">y=</span>quantile_.<span class="dv">50</span>), <span class="dt">colour=</span><span class="st">&quot;red&quot;</span>)<span class="op">+</span></span>
+<span id="cb41-7"><a href="#cb41-7"></a><span class="st">  </span><span class="kw">geom_line</span>(<span class="kw">aes</span>(<span class="dt">y=</span>quantile_.<span class="dv">75</span>), <span class="dt">linetype=</span><span class="dv">2</span>, <span class="dt">colour=</span><span class="st">&quot;green&quot;</span>)<span class="op">+</span></span>
+<span id="cb41-8"><a href="#cb41-8"></a><span class="st">  </span><span class="kw">geom_line</span>(<span class="kw">aes</span>(<span class="dt">y=</span>quantile_.<span class="dv">95</span>), <span class="dt">linetype=</span><span class="st">&quot;twodash&quot;</span>, <span class="dt">colour=</span><span class="st">&quot;blue&quot;</span>)<span class="op">+</span></span>
+<span id="cb41-9"><a href="#cb41-9"></a><span class="st">  </span><span class="kw">ylab</span>(<span class="st">&quot;Predicción de la proporción de frutos&quot;</span>)<span class="op">+</span></span>
+<span id="cb41-10"><a href="#cb41-10"></a><span class="st">  </span><span class="kw">xlab</span>(<span class="st">&quot;Números de Flores&quot;</span>)<span class="op">+</span></span>
+<span id="cb41-11"><a href="#cb41-11"></a><span class="st">  </span><span class="kw">annotate</span>(<span class="st">&quot;text&quot;</span>, <span class="dt">x=</span><span class="dv">25</span>, <span class="dt">y=</span><span class="fl">0.50</span>, <span class="dt">label=</span><span class="st">&quot;95th quartile&quot;</span>, <span class="dt">fontface=</span><span class="st">&quot;italic&quot;</span>)<span class="op">+</span></span>
+<span id="cb41-12"><a href="#cb41-12"></a><span class="st">  </span><span class="kw">annotate</span>(<span class="st">&quot;text&quot;</span>, <span class="dt">x=</span><span class="dv">32</span>, <span class="dt">y=</span><span class="fl">0.39</span>, <span class="dt">label=</span><span class="st">&quot;75th quartile&quot;</span>, <span class="dt">fontface=</span><span class="st">&quot;italic&quot;</span>)<span class="op">+</span></span>
+<span id="cb41-13"><a href="#cb41-13"></a><span class="st">  </span><span class="kw">annotate</span>(<span class="st">&quot;text&quot;</span>, <span class="dt">x=</span><span class="dv">33</span>, <span class="dt">y=</span><span class="fl">0.14</span>, <span class="dt">label=</span><span class="st">&quot;25th quartile&quot;</span>, <span class="dt">fontface=</span><span class="st">&quot;italic&quot;</span>)<span class="op">+</span></span>
+<span id="cb41-14"><a href="#cb41-14"></a><span class="st">  </span><span class="kw">annotate</span>(<span class="st">&quot;text&quot;</span>, <span class="dt">x=</span><span class="dv">33</span>, <span class="dt">y=</span><span class="fl">0.27</span>, <span class="dt">label=</span><span class="st">&quot;Median&quot;</span>, <span class="dt">fontface=</span><span class="st">&quot;italic&quot;</span>)<span class="op">+</span></span>
+<span id="cb41-15"><a href="#cb41-15"></a><span class="st">  </span><span class="kw">annotate</span>(<span class="st">&quot;text&quot;</span>, <span class="dt">x=</span><span class="dv">35</span>, <span class="dt">y=</span><span class="op">-</span><span class="fl">0.02</span>, <span class="dt">label=</span><span class="st">&quot;5th quartile&quot;</span>, <span class="dt">fontface=</span><span class="st">&quot;italic&quot;</span>)<span class="op">+</span></span>
+<span id="cb41-16"><a href="#cb41-16"></a><span class="kw">theme</span>(<span class="dt">axis.title.y =</span> <span class="kw">element_text</span>(<span class="dt">colour=</span><span class="st">&quot;grey20&quot;</span>,<span class="dt">size=</span><span class="dv">20</span>,<span class="dt">face=</span><span class="st">&quot;bold&quot;</span>),</span>
+<span id="cb41-17"><a href="#cb41-17"></a>        <span class="dt">axis.text.x =</span> <span class="kw">element_text</span>(<span class="dt">colour=</span><span class="st">&quot;grey20&quot;</span>,<span class="dt">size=</span><span class="dv">20</span>,<span class="dt">face=</span><span class="st">&quot;bold&quot;</span>),</span>
+<span id="cb41-18"><a href="#cb41-18"></a>        <span class="dt">axis.text.y =</span> <span class="kw">element_text</span>(<span class="dt">colour=</span><span class="st">&quot;grey20&quot;</span>,<span class="dt">size=</span><span class="dv">20</span>,<span class="dt">face=</span><span class="st">&quot;bold&quot;</span>), </span>
+<span id="cb41-19"><a href="#cb41-19"></a>        <span class="dt">axis.title.x =</span> <span class="kw">element_text</span>(<span class="dt">colour=</span><span class="st">&quot;grey20&quot;</span>,<span class="dt">size=</span><span class="dv">20</span>,<span class="dt">face=</span><span class="st">&quot;bold&quot;</span>))<span class="op">+</span></span>
+<span id="cb41-20"><a href="#cb41-20"></a><span class="st">  </span><span class="kw">theme</span>(<span class="dt">legend.position=</span><span class="st">&quot;none&quot;</span>)<span class="op">+</span></span>
+<span id="cb41-21"><a href="#cb41-21"></a><span class="st">  </span>rlt_theme</span></code></pre></div>
+<pre><code>## Warning: Ignoring unknown parameters: width, height</code></pre>
 <p><img src="TF7_Regresion_beta_files/figure-html/beta%20reg%20graph-1.png" width="672" /></p>
+<p>Aquí es una representación de las distribuciones beta en las x, número de flores. En rojo es para simular la distribución la proporción esperada de frutos en plantas que tienen 15 flores y la linea azul es para simular la distribución esperada de la proporción de frutos en plantas con 30 flores.</p>
+<div class="sourceCode" id="cb43"><pre class="sourceCode r"><code class="sourceCode r"><span id="cb43-1"><a href="#cb43-1"></a><span class="kw">ggplot</span>(dipodium2, <span class="kw">aes</span>(PropFR))<span class="op">+</span></span>
+<span id="cb43-2"><a href="#cb43-2"></a><span class="st">  </span><span class="kw">geom_histogram</span>(<span class="kw">aes</span>(<span class="dt">y=</span>..density..), <span class="dt">colour=</span><span class="st">&quot;white&quot;</span>, <span class="dt">fill=</span><span class="st">&quot;grey50&quot;</span>)<span class="op">+</span></span>
+<span id="cb43-3"><a href="#cb43-3"></a><span class="st">  </span><span class="kw">stat_function</span>(<span class="kw">aes</span>(<span class="dt">x =</span> dipodium2<span class="op">$</span>PropFR, <span class="dt">y =</span> ..y..), <span class="dt">fun =</span> dbeta, <span class="dt">colour=</span><span class="st">&quot;red&quot;</span>, <span class="dt">n =</span> <span class="dv">62</span>,</span>
+<span id="cb43-4"><a href="#cb43-4"></a>                      <span class="dt">args =</span> <span class="kw">list</span>(<span class="dt">shape1 =</span> <span class="fl">1.1</span>, <span class="dt">shape2 =</span><span class="dv">20</span>))<span class="op">+</span></span>
+<span id="cb43-5"><a href="#cb43-5"></a><span class="kw">stat_function</span>(<span class="kw">aes</span>(<span class="dt">x =</span> dipodium2<span class="op">$</span>PropFR, <span class="dt">y =</span> ..y..), <span class="dt">fun =</span> dbeta, <span class="dt">colour=</span><span class="st">&quot;blue&quot;</span>, <span class="dt">n =</span> <span class="dv">62</span>,</span>
+<span id="cb43-6"><a href="#cb43-6"></a>                      <span class="dt">args =</span> <span class="kw">list</span>(<span class="dt">shape1 =</span> <span class="dv">20</span>, <span class="dt">shape2 =</span><span class="dv">110</span>))</span></code></pre></div>
+<pre><code>## `stat_bin()` using `bins = 30`. Pick better value with `binwidth`.</code></pre>
+<p><img src="TF7_Regresion_beta_files/figure-html/unnamed-chunk-14-1.png" width="672" /></p>
 <blockquote>
-<p>“Activities reported in this website was supported by the National Institute Of General Medical Sciences of the National Institutes of Health under Award Number R25GM121270. The content is solely the responsibility of the authors and does not necessarily represent the official views of the National Institutes of Health.”</p>
+<p>“Activities reported in this website was supported by the National Institute of General Medical Sciences of the National Institutes of Health under Award Number R25GM121270. The content is solely the responsibility of the authors and does not necessarily represent the official views of the National Institutes of Health.”</p>
 </blockquote>
 <p><img src="Graficos/UPR_Logos.png" width="100%" /></p>
 </div>
